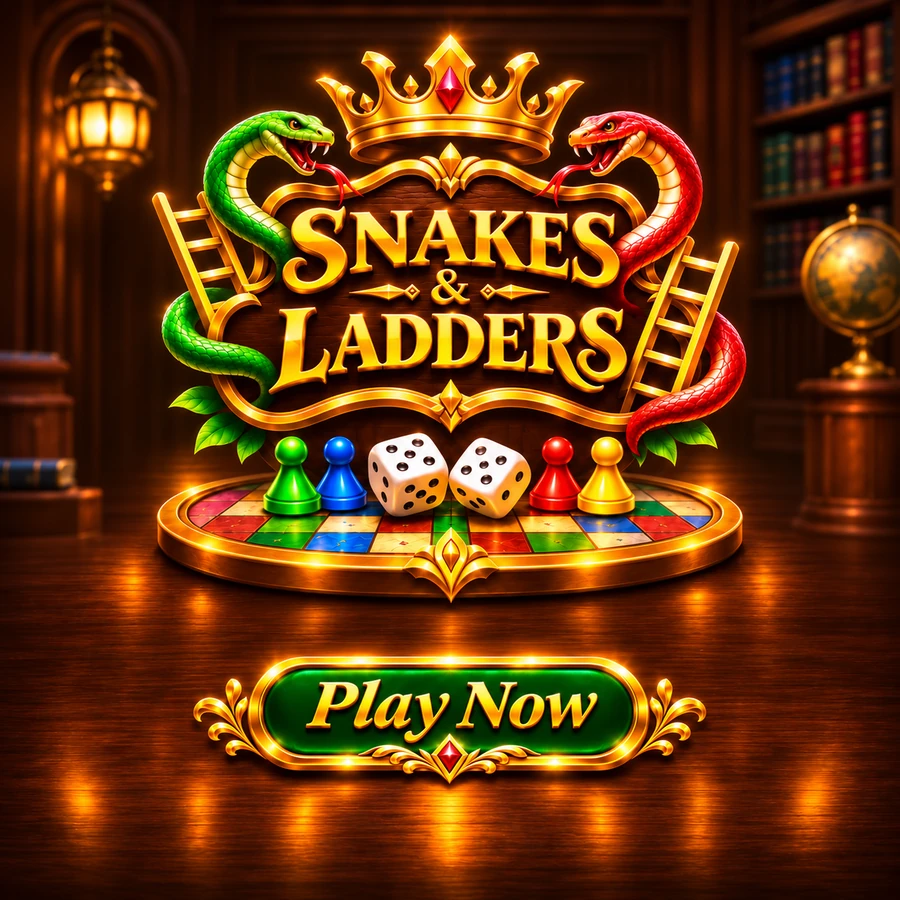
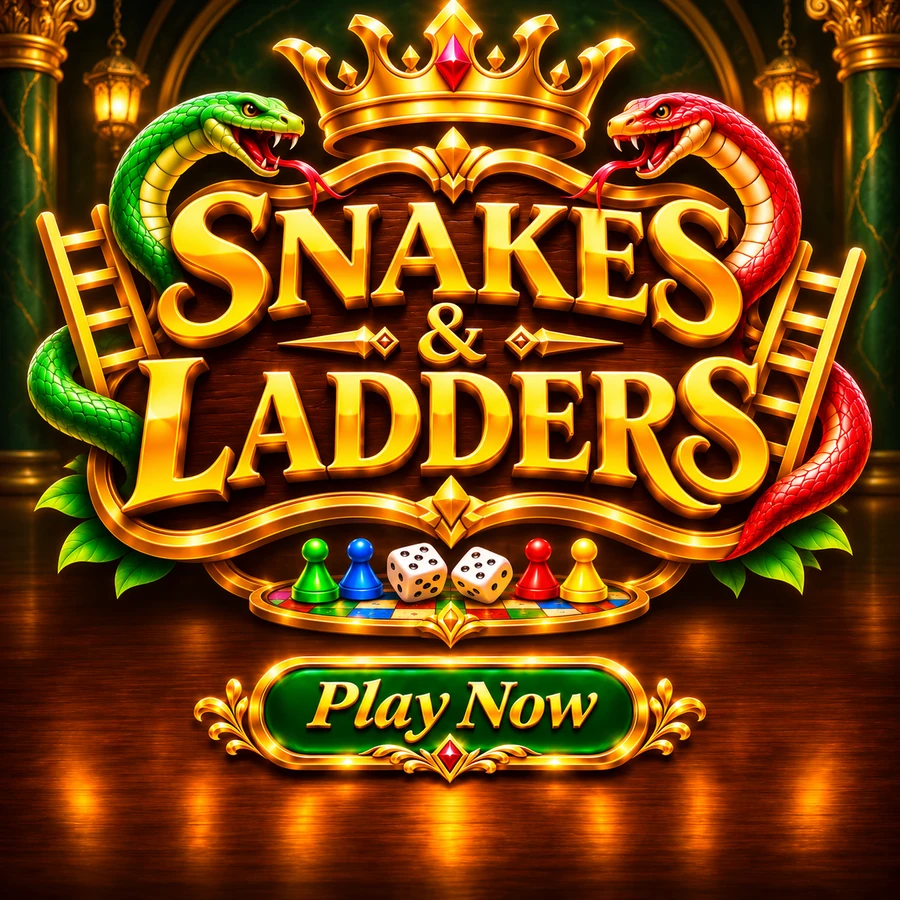
Bring the Snakes and Ladders preview closer with a royal emerald backdrop
Enlarge the emblem across the card and replace the library with gold lanterns and emerald columns. Keep the existing square card frame and compact Play Now geometry to match the sibling game cards. Refresh the preview cache key.

Verified card dimensions, sibling framing, button geometry, single-card navigation and asset loading at 320px, 390px and 1920px.

diff --git a/games/index.html b/games/index.html
@@ -37,7 +37,7 @@
         <div class="preview premium-game-preview" aria-hidden="true"><img src="./preview-assets/tic-tac-toe.webp?v=royal-matched-play-now" alt="" width="900" height="900" loading="lazy" decoding="async"></div>
       </a></li>
       <li><a class="tile artwork-tile premium-game-tile serpent-tile" href="/games/snakes-and-ladders/" aria-label="Play Snakes &amp; Ladders">
-        <div class="preview premium-game-preview" aria-hidden="true"><img src="./preview-assets/snakes-and-ladders.webp?v=royal-matched-compact-play-now" alt="" width="900" height="900" loading="lazy" decoding="async"><svg class="card-footer-art" viewBox="0 0 900 900" aria-hidden="true"><defs><linearGradient id="serpent-footer-fade" x1="0" y1="610" x2="0" y2="652" gradientUnits="userSpaceOnUse"><stop stop-color="black"/><stop offset="1" stop-color="white"/></linearGradient><mask id="serpent-footer" maskUnits="userSpaceOnUse" x="0" y="0" width="900" height="900"><rect width="900" height="900" fill="url(#serpent-footer-fade)"/></mask><filter id="serpent-footer-soft"><feGaussianBlur stdDeviation="5"/></filter><mask id="serpent-button-soft" maskUnits="userSpaceOnUse" x="0" y="0" width="900" height="900"><rect x="194" y="658" width="512" height="124" rx="28" fill="white" filter="url(#serpent-footer-soft)"/></mask></defs><image href="./preview-assets/snakes-and-ladders.webp?v=royal-matched-compact-play-now" x="0" y="-1530" width="900" height="2430" preserveAspectRatio="none" mask="url(#serpent-footer)"/><svg class="preview-play-region" x="150" y="690" width="600" height="140" viewBox="185 650 530 140" preserveAspectRatio="none"><image href="./preview-assets/snakes-and-ladders.webp?v=royal-matched-compact-play-now" width="900" height="900" mask="url(#serpent-button-soft)"/></svg></svg></div>
+        <div class="preview premium-game-preview" aria-hidden="true"><img src="./preview-assets/snakes-and-ladders.webp?v=20261109-royal-close" alt="" width="900" height="900" loading="lazy" decoding="async"><svg class="card-footer-art" viewBox="0 0 900 900" aria-hidden="true"><defs><linearGradient id="serpent-footer-fade" x1="0" y1="610" x2="0" y2="652" gradientUnits="userSpaceOnUse"><stop stop-color="black"/><stop offset="1" stop-color="white"/></linearGradient><mask id="serpent-footer" maskUnits="userSpaceOnUse" x="0" y="0" width="900" height="900"><rect width="900" height="900" fill="url(#serpent-footer-fade)"/></mask><filter id="serpent-footer-soft"><feGaussianBlur stdDeviation="5"/></filter><mask id="serpent-button-soft" maskUnits="userSpaceOnUse" x="0" y="0" width="900" height="900"><rect x="194" y="658" width="512" height="124" rx="28" fill="white" filter="url(#serpent-footer-soft)"/></mask></defs><image href="./preview-assets/snakes-and-ladders.webp?v=20261109-royal-close" x="0" y="-1530" width="900" height="2430" preserveAspectRatio="none" mask="url(#serpent-footer)"/><svg class="preview-play-region" x="150" y="690" width="600" height="140" viewBox="185 650 530 140" preserveAspectRatio="none"><image href="./preview-assets/snakes-and-ladders.webp?v=20261109-royal-close" width="900" height="900" mask="url(#serpent-button-soft)"/></svg></svg></div>
       </a></li>
       <li><a class="tile artwork-tile premium-game-tile twenty48-tile" href="/games/2048/" aria-label="Play 2048">
         <div class="preview premium-game-preview" aria-hidden="true"><img src="./preview-assets/2048.webp?v=royal-square-matched-play-now" alt="" width="900" height="900" loading="lazy" decoding="async"></div>
